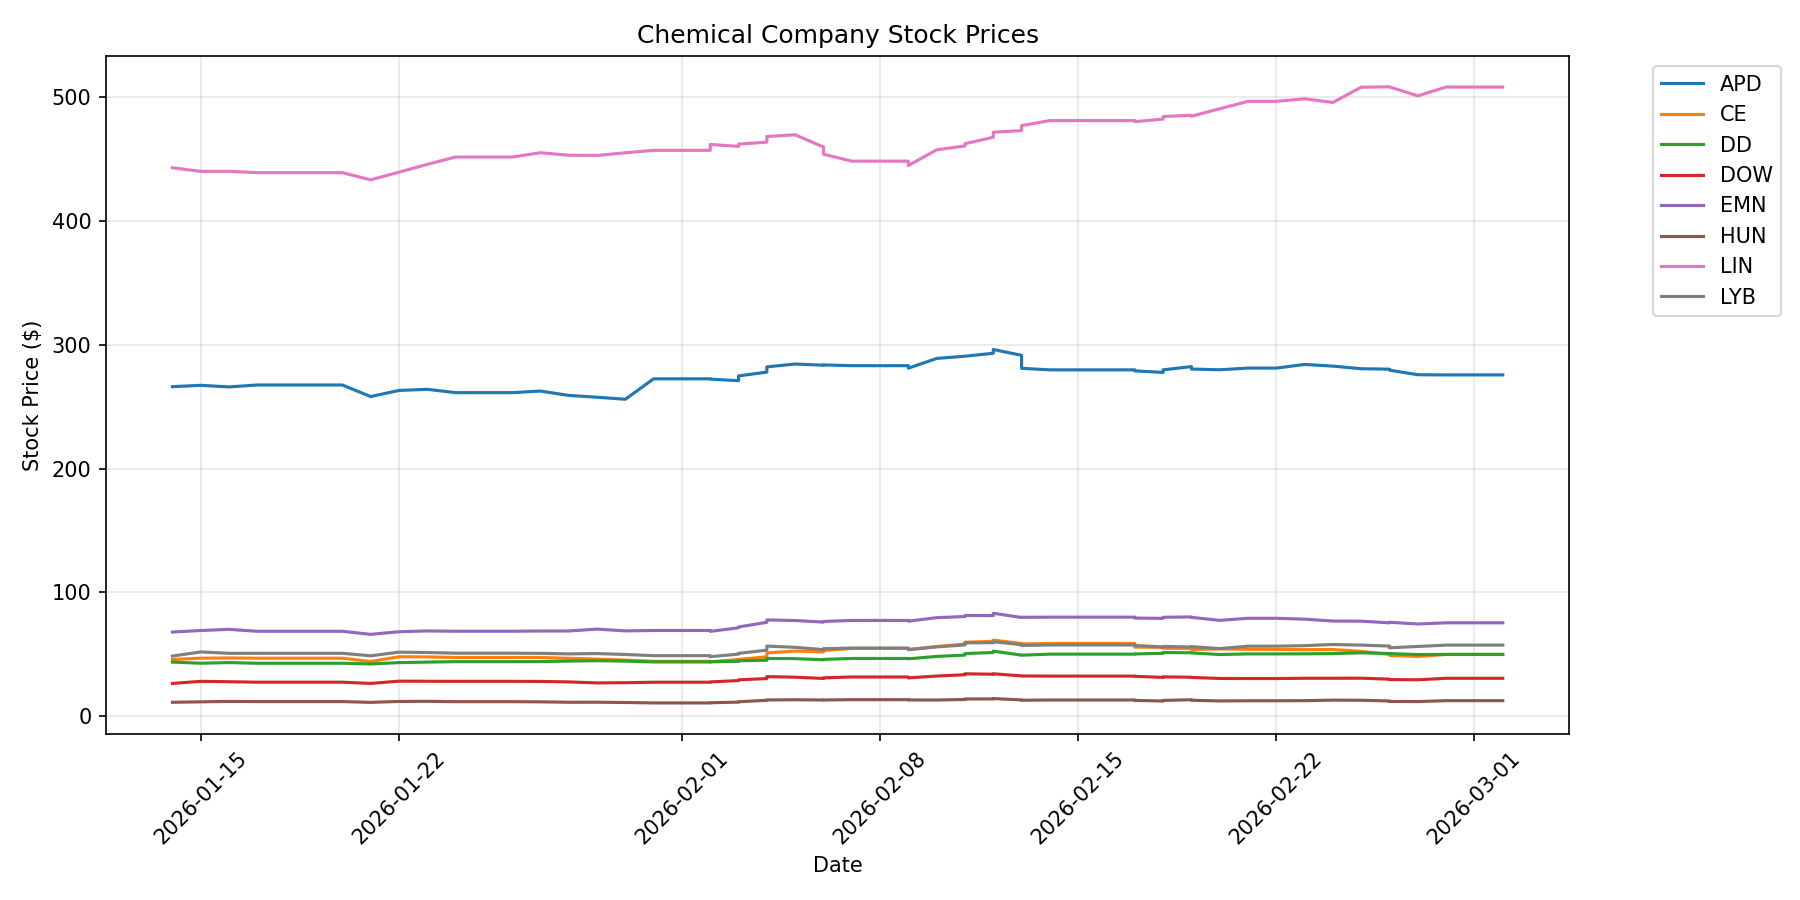
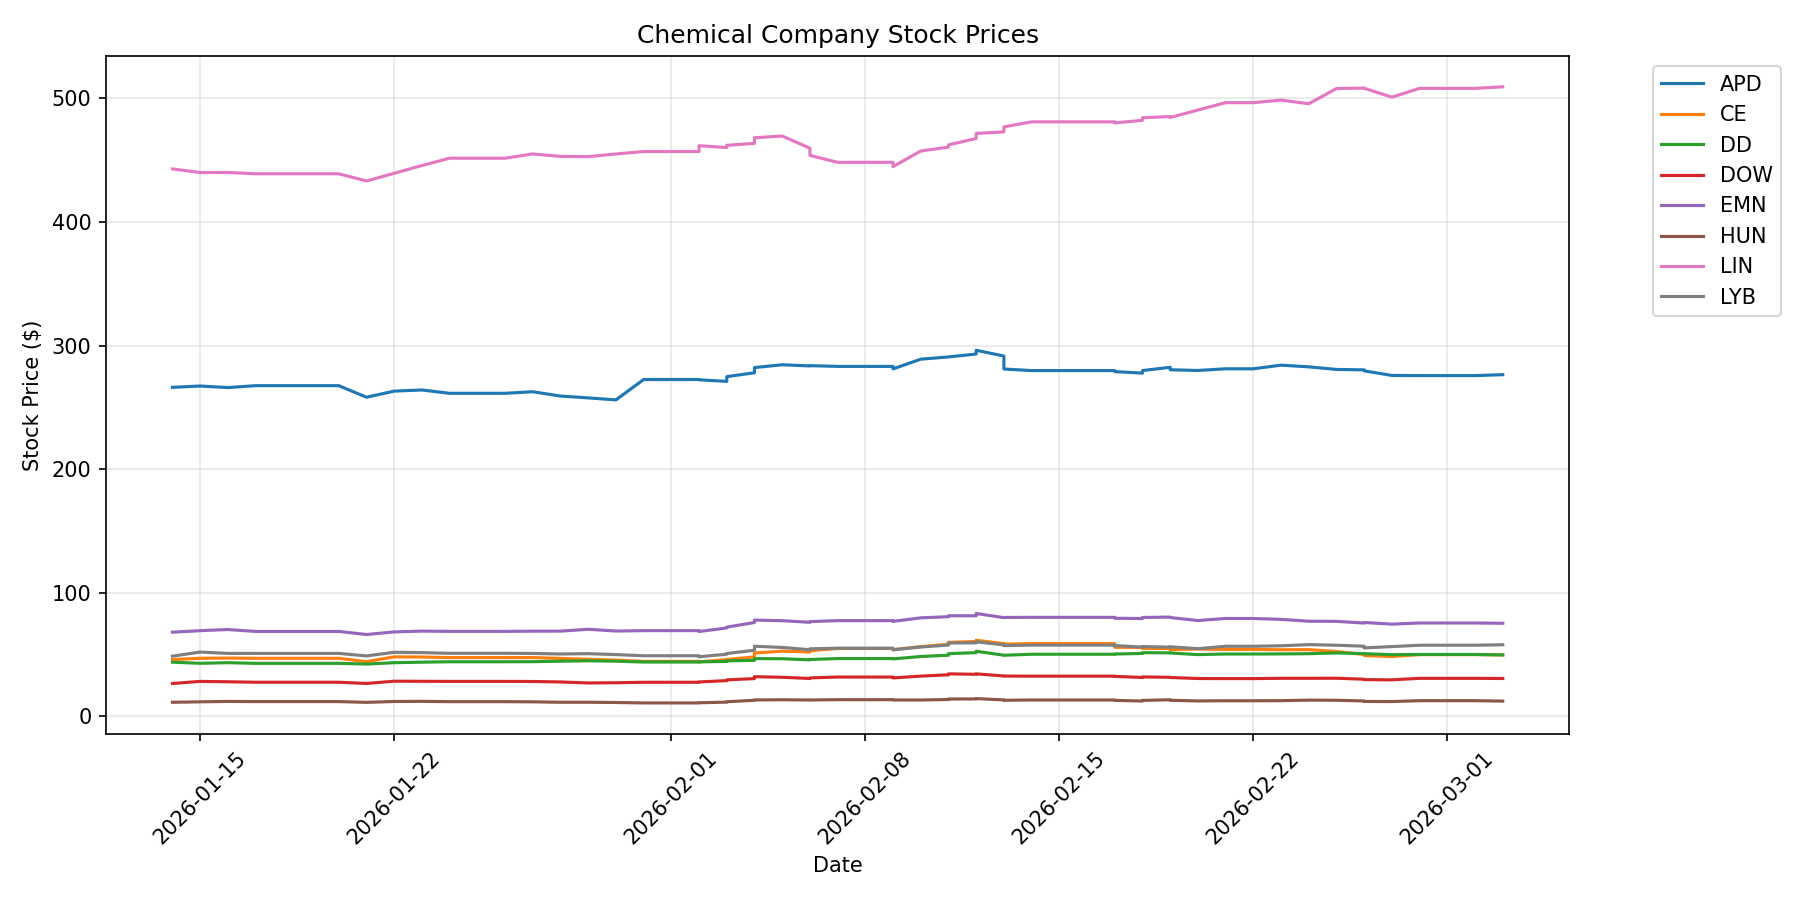
Daily price update: 2026-03-03

diff --git a/README.md b/README.md
@@ -2,29 +2,29 @@
 
 Automated daily tracking of chemical commodity prices and chemical company stocks.
 
-## Latest Prices (Updated: 2026-03-02)
+## Latest Prices (Updated: 2026-03-03)
 
 ### Energy Commodities
 
 | Commodity | Price | Change (24h) | Unit |
 |-----------|-------|--------------|------|
-| WTI Crude Oil | $72.01 | +0.00 (+0.00%) | $/barrel |
-| Brent Crude Oil | $79.03 | +0.00 (+0.00%) | $/barrel |
-| Natural Gas | $3.00 | +0.00 (+0.00%) | $/MMBtu |
+| WTI Crude Oil | $72.69 | +0.00 (+0.00%) | $/barrel |
+| Brent Crude Oil | $79.74 | +0.00 (+0.00%) | $/barrel |
+| Natural Gas | $3.03 | +0.00 (+0.00%) | $/MMBtu |
 | Heating Oil | $2.76 | +0.00 (+0.00%) | $/gallon |
 
 ### Chemical Company Stocks
 
 | Company | Ticker | Price | Change (24h) |
 |---------|--------|-------|--------------|
-| Dow Inc. | DOW | $30.73 | +1.18 (+3.99%) |
-| LyondellBasell | LYB | $57.52 | +1.22 (+2.17%) |
-| DuPont | DD | $50.04 | -0.31 (-0.62%) |
-| Air Products | APD | $275.67 | -0.56 (-0.20%) |
-| Linde | LIN | $508.08 | +9.57 (+1.92%) |
-| Eastman Chemical | EMN | $75.51 | +0.29 (+0.39%) |
-| Celanese | CE | $49.94 | +0.81 (+1.65%) |
-| Huntsman | HUN | $12.65 | +0.68 (+5.68%) |
+| Dow Inc. | DOW | $30.60 | -0.13 (-0.42%) |
+| LyondellBasell | LYB | $57.88 | +1.05 (+1.85%) |
+| DuPont | DD | $49.64 | -0.20 (-0.40%) |
+| Air Products | APD | $276.43 | +0.76 (+0.28%) |
+| Linde | LIN | $509.34 | +1.26 (+0.25%) |
+| Eastman Chemical | EMN | $75.28 | -0.23 (-0.30%) |
+| Celanese | CE | $49.73 | -0.21 (-0.42%) |
+| Huntsman | HUN | $12.30 | -0.35 (-2.77%) |
 
 ## Data Sources
 

diff --git a/logs/update_log.md b/logs/update_log.md
@@ -90,3 +90,4 @@ Daily updates to the chemical engineering data repository.
 - **2026-03-01 14:16:08**: Updated 4 energy prices, 8 stocks, 0 FRED series
 - **2026-03-02 00:00:03**: Updated 4 energy prices, 8 stocks, 0 FRED series
 - **2026-03-02 14:14:40**: Updated 4 energy prices, 8 stocks, 0 FRED series
+- **2026-03-03 00:00:05**: Updated 4 energy prices, 8 stocks, 0 FRED series
